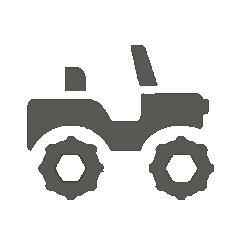
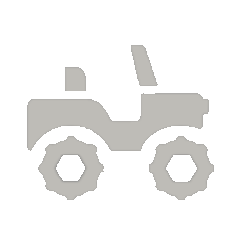
Improvements

diff --git a/frontend/lib/domain/components/building_component.dart b/frontend/lib/domain/components/building_component.dart
@@ -48,7 +48,7 @@ class BuildingComponent extends SpriteComponent {
         building: building,
         nodeComponent: nodeComponent,
         position: size / 2,
-        size: size * 0.6,
+        size: size * 0.4,
       ),
     );
 

diff --git a/frontend/lib/utils/dimensions.dart b/frontend/lib/utils/dimensions.dart
@@ -182,7 +182,7 @@ class Dimensions {
   }) {
     final Vector2 fromCenter = point - (size / 2);
 
-    return fromCenter.length < (size.x * 0.5);
+    return fromCenter.length < (size.x * 0.6);
   }
 
   static Vector2 fpsPosition({

diff --git a/frontend/README.md b/frontend/README.md
@@ -1,6 +1,5 @@
 ### High
 
-- Show building in launcher
 - Launch units from proper building
 - Add main base building
 - Launch missile to main building
